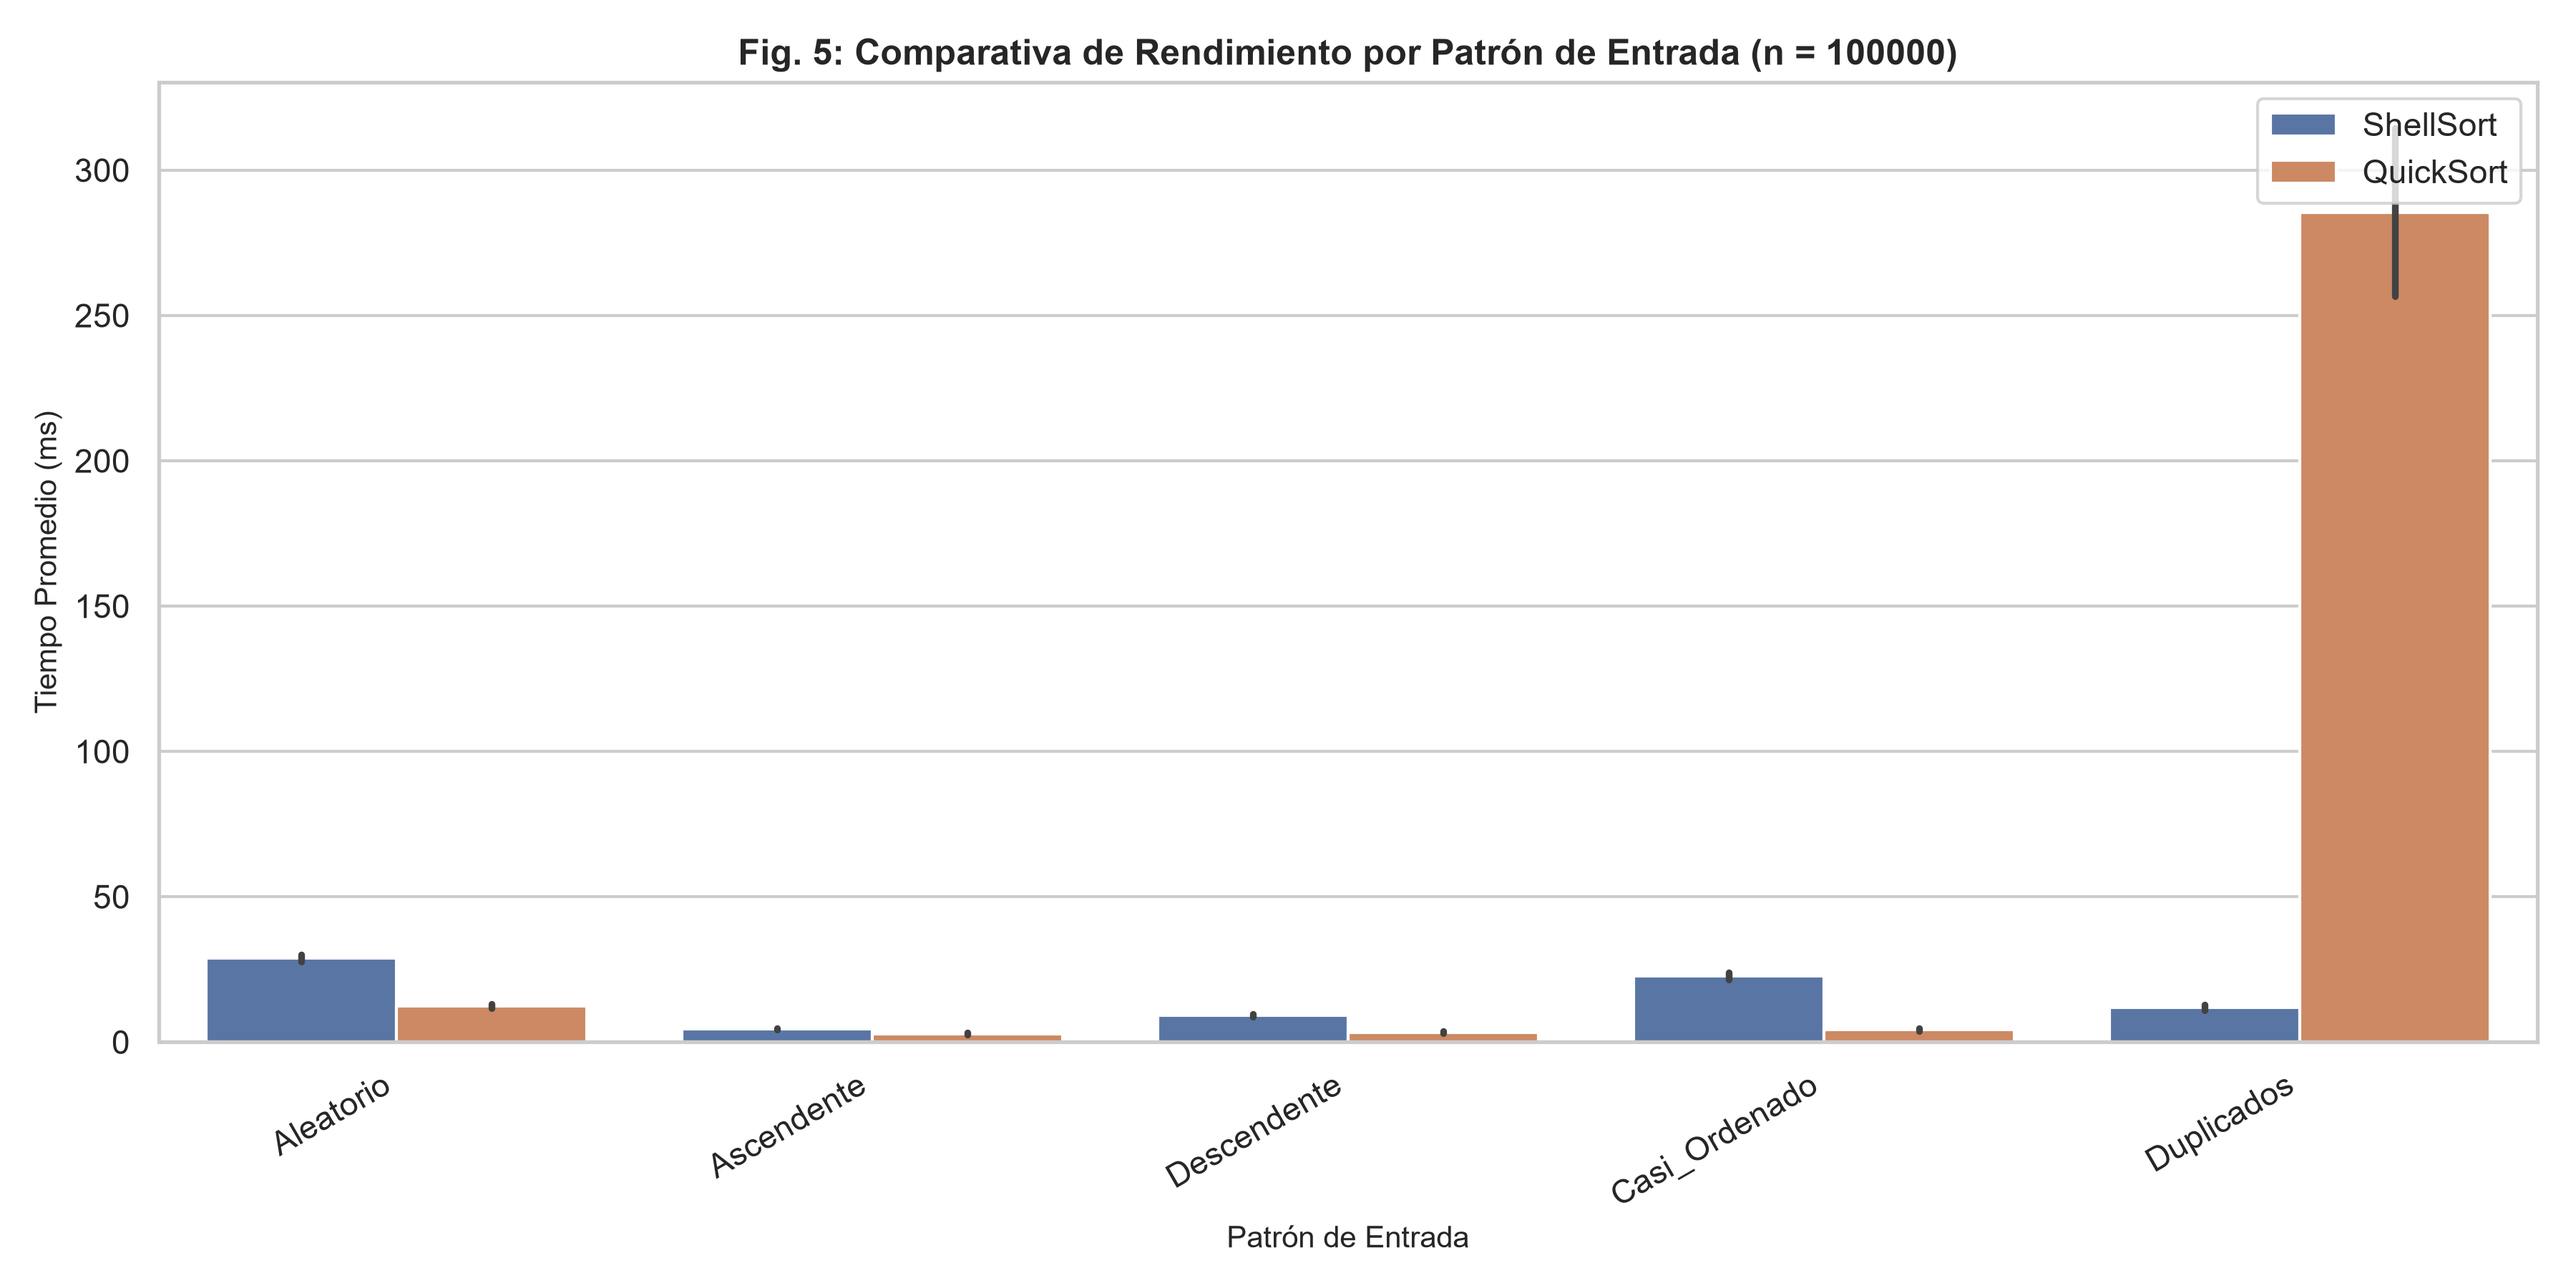
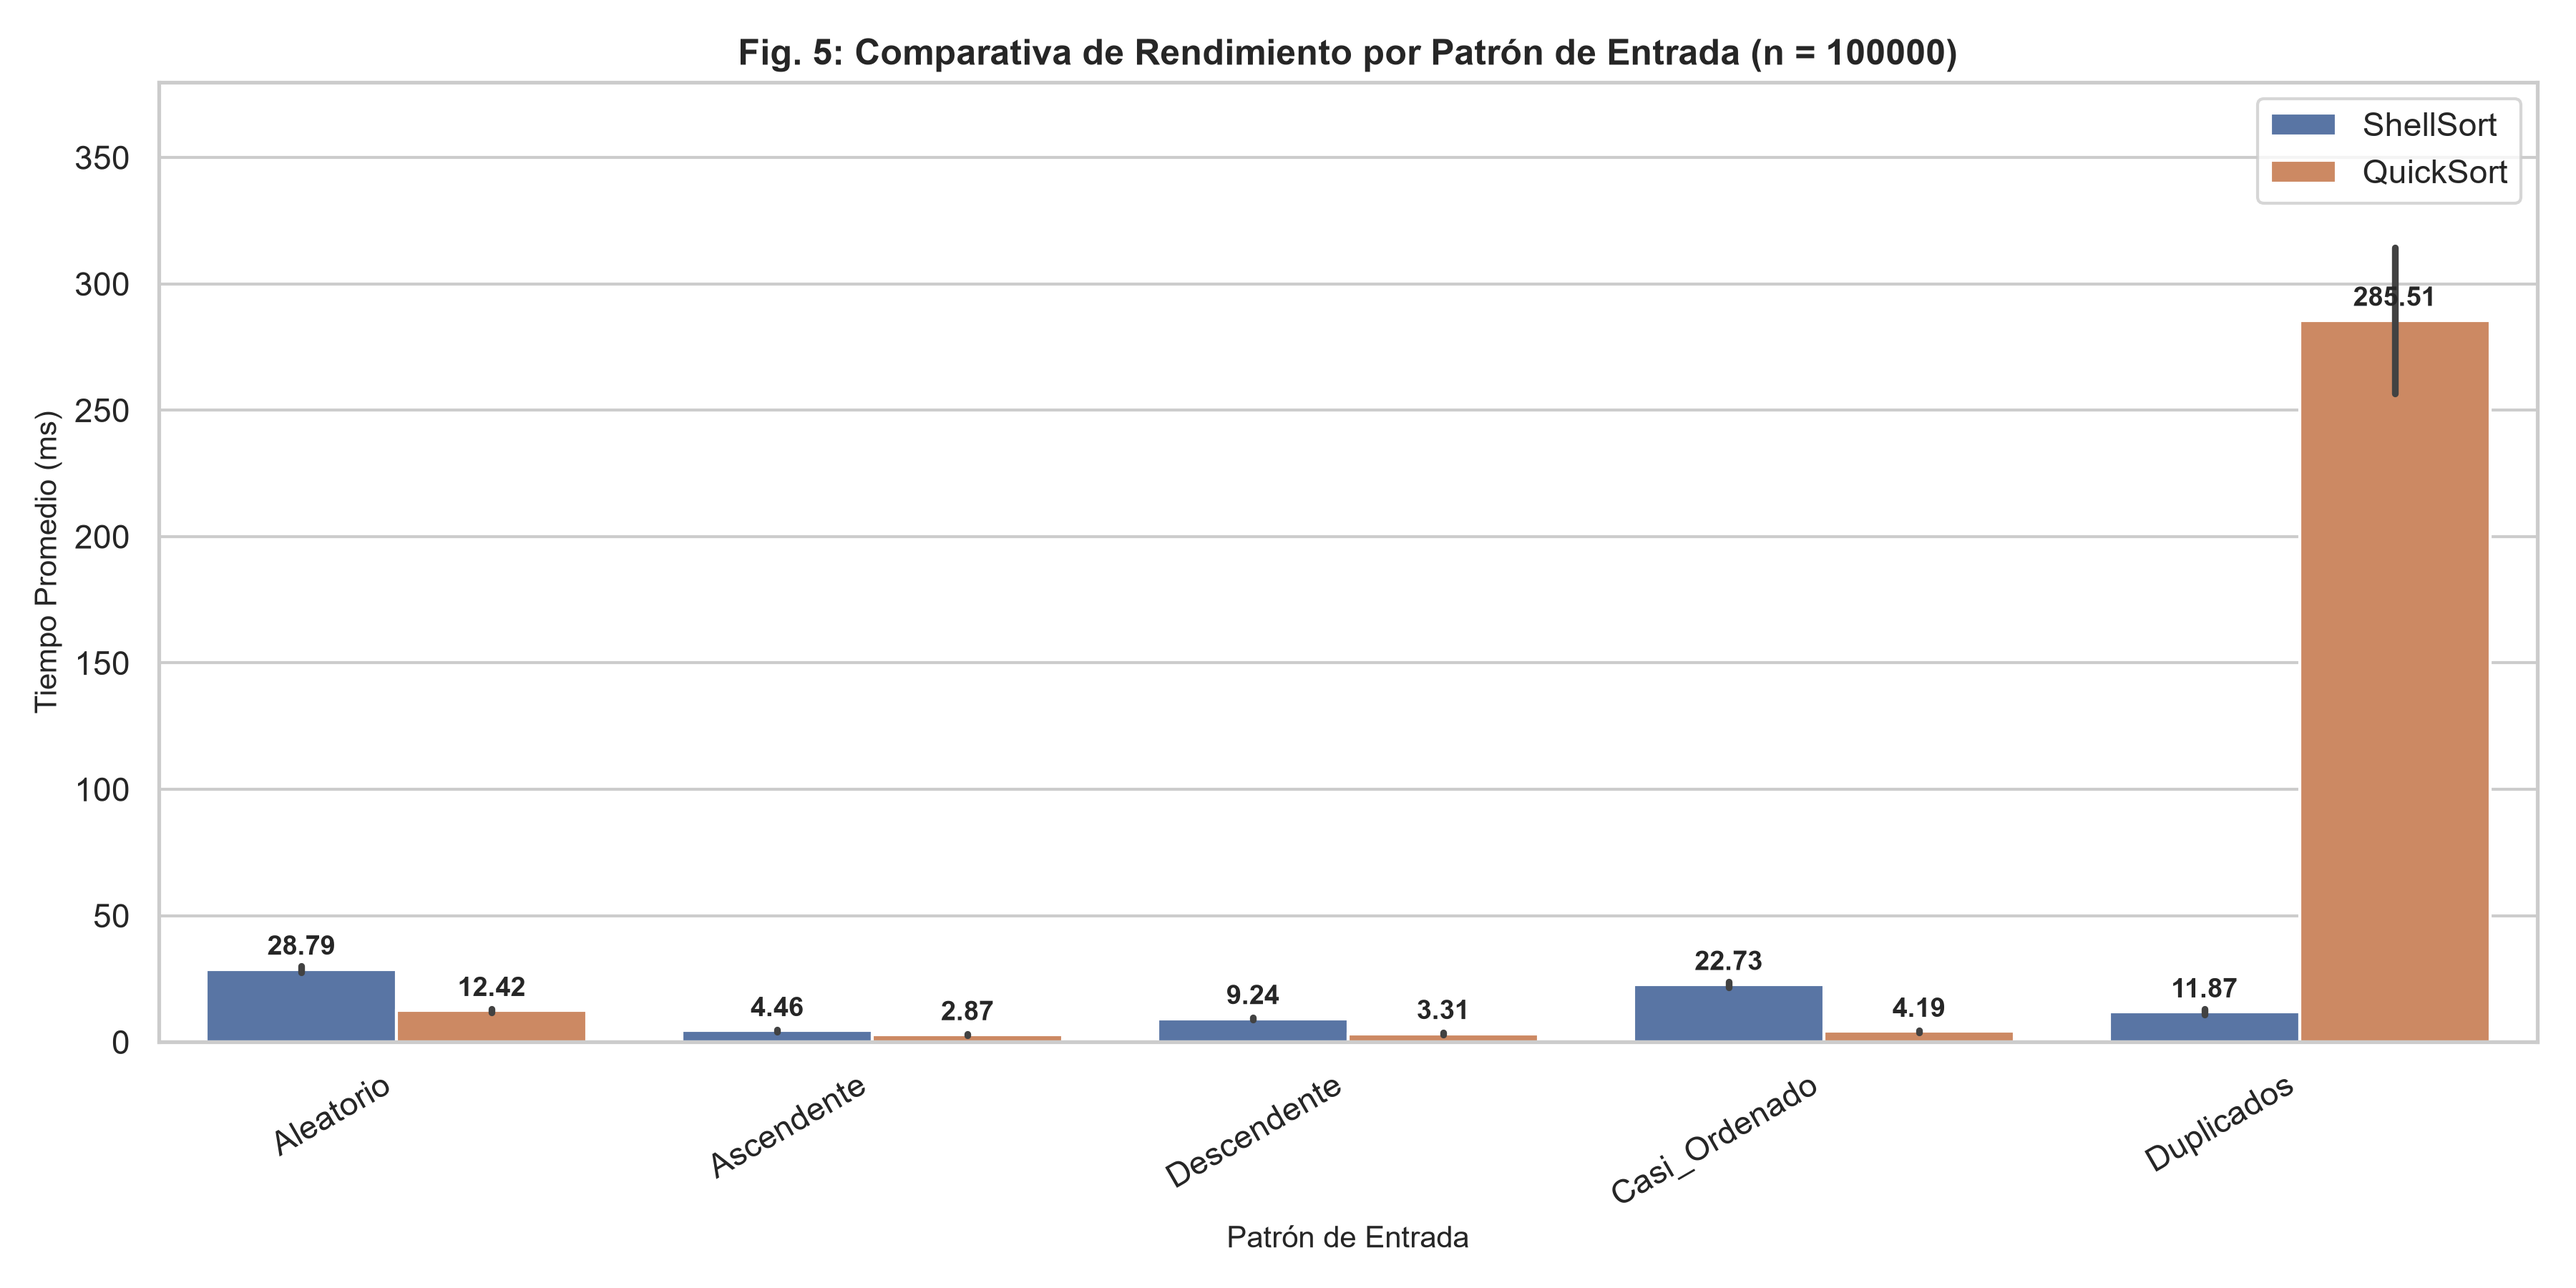
Numero encima de las barras

diff --git a/src/analisis.py b/src/analisis.py
@@ -103,6 +103,19 @@ ax5.set_xlabel("Patrón de Entrada", fontsize = 10)
 ax5.set_ylabel("Tiempo Promedio (ms)", fontsize = 10)
 plt.setp(ax5.get_xticklabels(), rotation = 30, ha = 'right')
 ax5.legend(loc = 'upper right', frameon = True)
+for p in ax5.patches:
+    height = p.get_height()
+    if height > 0: 
+        ax5.annotate(
+            f'{height:.2f}', 
+            (p.get_x() + p.get_width() / 2., height),
+            ha = 'center', va = 'bottom',
+            xytext = (0, 3),
+            textcoords = 'offset points',
+            fontsize = 9, fontweight = 'bold'
+        )
+
+ax5.set_ylim(0, ax5.get_ylim()[1] * 1.15)
 fig5.tight_layout()
 
 fig5.savefig('../results/Rendimiento_comparativa.png', dpi = 300)
